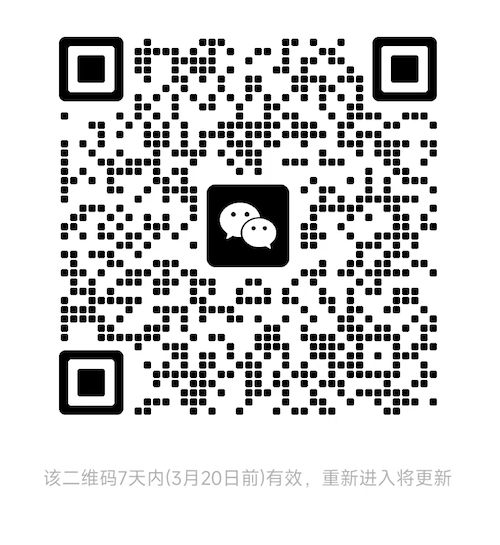
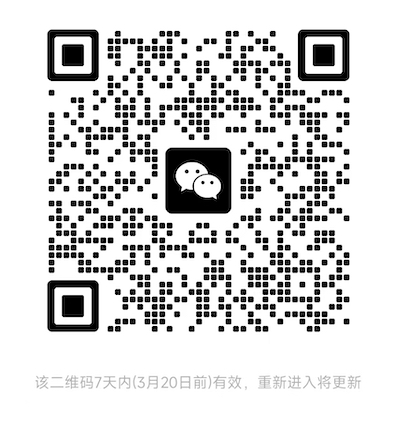
更新图片大小

diff --git a/README.md b/README.md
@@ -11,7 +11,7 @@
 1. 电报群 <https://t.me/+s-5piM3koEphNDY1>
 1. 微信③群 
 
-![](images/20230313223714.png)
+![](images/20230313223714.jpeg)
 
 
 目录
